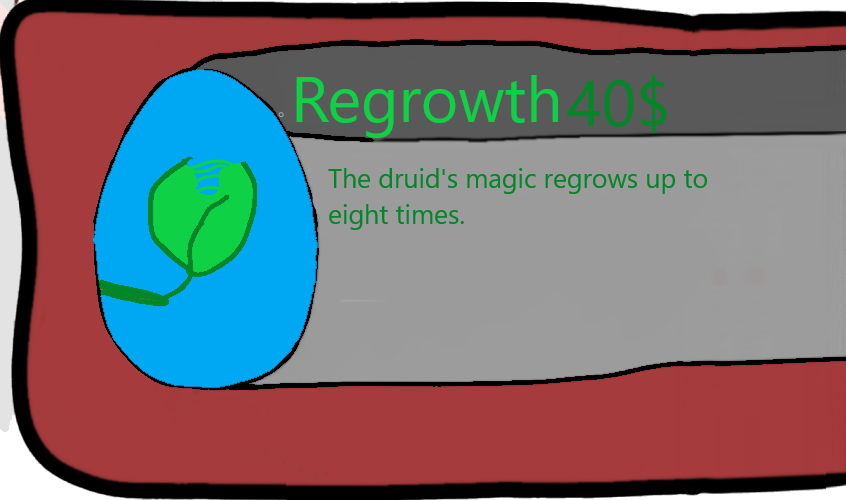
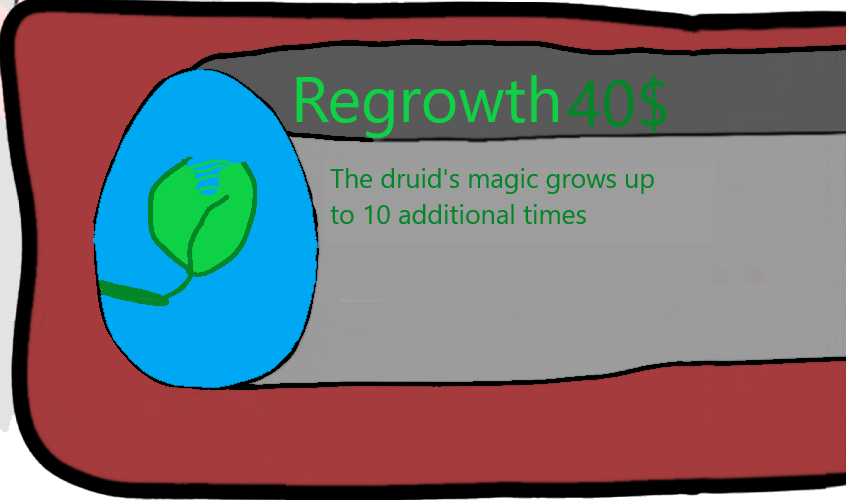
Huge internal improvements
Druud now has 1 base regrow times. engineer can now have 1 more turret at a time., as to balance the new drt monke upgrades.

Changed region(s): [[0.3688, 0.33, 0.8298, 0.45]]

diff --git a/BTD 0.py b/BTD 0.py
@@ -51,6 +51,7 @@ flont = pygame.font.Font('freesansbold.ttf',80)
 flint = pygame.font.Font('freesansbold.ttf',30)
 screen = pygame.display.set_mode((0,0), pygame.FULLSCREEN)
 w, h = pygame.display.get_surface().get_size()
+w-=240
 pygame.display.set_caption("BTD Battles 8")
 icon = loadify('drtmonk')
 pygame.display.set_icon(icon)
@@ -76,15 +77,9 @@ mines=[]
 murder=[]
 sqares=[]
 sqaresize=100
-x=int(sqaresize/2)
-y=int(sqaresize/2)
-for e in range(400):
+for e in range(204):
     sqares.append([])
-    x+=sqaresize
-    if x>w:
-        x=sqaresize/2
-        y+=sqaresize
-maxsqare=19
+maxsqare=17
 sqaresa=[[g for g in e] for e in sqares]
 sqaresb=[[g for g in e] for e in sqares]
 sqares2=[[g for g in e] for e in sqares]
@@ -298,7 +293,7 @@ class druidball(Drt):
                             self.pierce[1]+=1
                             self.dmg+=2
                         xplosions.append(
-                            explode(self.X, self.Y, self.a, self.D[1] / 7 * 30, 10.73 / self.D[1] * self.SPE[c * 2 - 1],
+                            explode(self.X, self.Y, self.a, self.D[1] / 7 * 30, 10.73 / self.D[1] * self.SPE[c * 2 - 1]*4/7,
                                     0))
                         self.pierce[0]=self.pierce[1]
                         drts.remove(self)
@@ -575,27 +570,19 @@ class Druid(pygame.sprite.Sprite):
         self.X=X
         self.Y=Y
         self.ID =loadify("druidball")
-        self.H=1
+        self.H=2
         self.pierce=[0,0]
         self.P = [0]
         self.dmg = 3
 
 
 def drtM():
-    rel=0
     for e in drts:
         e.X+=e.S
         e.Y+=e.s
         e.x=int(e.X)
         e.y=int(e.Y)
 
-        sqares2[int((e.X + e.ss[0]) // sqaresize + (e.Y + e.ss[1]) // sqaresize * maxsqare)].append(e)
-        if e not in sqares2[int(e.X // sqaresize + e.Y // sqaresize * maxsqare)]:
-            sqares2[int(e.X // sqaresize + e.Y // sqaresize * maxsqare)].append(e)
-        if e not in sqares2[int((e.X + e.ss[0]) // sqaresize + e.Y // sqaresize * maxsqare)]:
-            sqares2[int((e.X + e.ss[0]) // sqaresize + e.Y // sqaresize * maxsqare)].append(e)
-        if e not in sqares2[int(e.X // sqaresize + (e.Y + e.ss[1]) // sqaresize * maxsqare)]:
-            sqares2[int(e.X // sqaresize + (e.Y + e.ss[1]) // sqaresize * maxsqare)].append(e)
         if not 0<e.X<1800+e.ss[0]/2:
             if e.b<1:
                 e.kill()
@@ -612,6 +599,22 @@ def drtM():
             else:
                 e.b-=1
                 e.s*=-1
+        else:
+            for d in range( int( 1 + ( min((int( ( e.X + e.ss[0] ) // sqaresize),maxsqare)) - int( e.X // sqaresize )  ) )):
+                for i in range(int(1 + (  min  (int( e.Y + e.ss[1] // sqaresize ),11 ) - int( e.Y // sqaresize )  ))):
+                    sqares2[int((e.X + d*sqaresize) // sqaresize + (e.Y + i*sqaresize) // sqaresize * maxsqare)-1].append(e)
+
+        # sqares2[int((e.X + e.ss[0]) // sqaresize + (e.Y + e.ss[1]) // sqaresize * maxsqare)].append(e)
+        #
+        # if e not in sqares2[int(e.X // sqaresize + e.Y // sqaresize * maxsqare)]:
+        #     sqares2[int(e.X // sqaresize + e.Y // sqaresize * maxsqare)].append(e)
+        #
+        # if e not in sqares2[int((e.X + e.ss[0]) // sqaresize + e.Y // sqaresize * maxsqare)]:
+        #     sqares2[int((e.X + e.ss[0]) // sqaresize + e.Y // sqaresize * maxsqare)].append(e)
+        #
+        # if e not in sqares2[int(e.X // sqaresize + (e.Y + e.ss[1]) // sqaresize * maxsqare)]:
+        #     sqares2[int(e.X // sqaresize + (e.Y + e.ss[1]) // sqaresize * maxsqare)].append(e)
+
 def moida():
     global money,income,rn,locked
     for b in range (len(murder)):
@@ -682,23 +685,39 @@ def blnM():
         e.y=int(e.Y)
         if e not in drts2:
             if e.X>0:
-                sqares[int((e.X + e.s[0]) // sqaresize + (e.Y + e.s[1]) // sqaresize * maxsqare)].append(e)
-                if e not in sqares[int(e.X // sqaresize + e.Y // sqaresize * maxsqare)]:
-                    sqares[int(e.X // sqaresize + e.Y // sqaresize * maxsqare)].append(e)
-                if e not in sqares[int((e.X + e.s[0]) // sqaresize + e.Y // sqaresize * maxsqare)]:
-                    sqares[int((e.X + e.s[0]) // sqaresize + e.Y // sqaresize * maxsqare)].append(e)
-                if e not in sqares[int(e.X // sqaresize + (e.Y + e.s[1]) // sqaresize * maxsqare)]:
-                    sqares[int(e.X // sqaresize + (e.Y + e.s[1]) // sqaresize * maxsqare)].append(e)
+                for d in range(int(1 + (min((int((e.X + e.s[0]) // sqaresize), maxsqare)) - int(e.X // sqaresize)))):
+                    for i in range(int(1 + (min(int(e.Y + e.s[1] // sqaresize), 11) - int(e.Y // sqaresize)))):
+                        sqares[int((e.X + d * sqaresize) // sqaresize + (
+                                    e.Y + i * sqaresize) // sqaresize * maxsqare) - 1].append(e)
+                # for d in range(min(int(1 + (int((e.X + e.s[0]) // sqaresize - int(e.X // sqaresize)))), maxsqare)):
+                #     for i in range(min(int(1 + (int((e.Y + e.s[1]) // sqaresize - int(e.Y // sqaresize)))), 11)):
+                #         print(int((e.X + d * sqaresize) // sqaresize + (e.Y + i * sqaresize) // sqaresize * maxsqare)-1)
+                #         sqares[int((e.X + d * sqaresize) // sqaresize + (e.Y + i * sqaresize) // sqaresize * maxsqare)-1].append(e)
+                # sqares[int((e.X + e.s[0]) // sqaresize + (e.Y + e.s[1]) // sqaresize * maxsqare)].append(e)
+                # if e not in sqares[int(e.X // sqaresize + e.Y // sqaresize * maxsqare)]:
+                #     sqares[int(e.X // sqaresize + e.Y // sqaresize * maxsqare)].append(e)
+                # if e not in sqares[int((e.X + e.s[0]) // sqaresize + e.Y // sqaresize * maxsqare)]:
+                #     sqares[int((e.X + e.s[0]) // sqaresize + e.Y // sqaresize * maxsqare)].append(e)
+                # if e not in sqares[int(e.X // sqaresize + (e.Y + e.s[1]) // sqaresize * maxsqare)]:
+                #     sqares[int(e.X // sqaresize + (e.Y + e.s[1]) // sqaresize * maxsqare)].append(e)
         else:
-            sqares2[
-                int((e.X + e.ss[0]) // sqaresize + (e.Y + e.ss[1]) // sqaresize * maxsqare)].append(
-                e)
-            if e not in sqares2[int(e.X // sqaresize + e.Y // sqaresize * maxsqare)]:
-                sqares2[int(e.X // sqaresize + e.Y // sqaresize * maxsqare)].append(e)
-            if e not in sqares2[int((e.X + e.ss[0]) // sqaresize + e.Y // sqaresize * maxsqare)]:
-                sqares2[int((e.X + e.ss[0]) // sqaresize + e.Y // sqaresize * maxsqare)].append(e)
-            if e not in sqares2[int(e.X // sqaresize + (e.Y + e.ss[1]) // sqaresize * maxsqare)]:
-                sqares2[int(e.X // sqaresize + (e.Y + e.ss[1]) // sqaresize * maxsqare)].append(e)
+            for d in range( int( 1 + ( min((int( ( e.X + e.ss[0] ) // sqaresize),maxsqare)) - int( e.X // sqaresize )  ) )):
+                for i in range(int(1 + (  min  (int( e.Y + e.ss[1] // sqaresize ),11 ) - int( e.Y // sqaresize )  ))):
+                    sqares2[int((e.X + d*sqaresize) // sqaresize + (e.Y + i*sqaresize) // sqaresize * maxsqare)-1].append(e)
+            # for d in range(min(int(1 + (int((e.X + e.ss[0]) // sqaresize - int(e.X // sqaresize)))), maxsqare)):
+            #     for i in range(min(int(1 + (int((e.Y + e.ss[1]) // sqaresize - int(e.Y // sqaresize)))), 11)):
+            #         sqares2[
+            #             int((e.X + d * sqaresize) // sqaresize + (e.Y + i * sqaresize) // sqaresize * maxsqare)-1].append(
+            #             e)
+            # sqares2[
+            #     int((e.X + e.ss[0]) // sqaresize + (e.Y + e.ss[1]) // sqaresize * maxsqare)].append(
+            #     e)
+            # if e not in sqares2[int(e.X // sqaresize + e.Y // sqaresize * maxsqare)]:
+            #     sqares2[int(e.X // sqaresize + e.Y // sqaresize * maxsqare)].append(e)
+            # if e not in sqares2[int((e.X + e.ss[0]) // sqaresize + e.Y // sqaresize * maxsqare)]:
+            #     sqares2[int((e.X + e.ss[0]) // sqaresize + e.Y // sqaresize * maxsqare)].append(e)
+            # if e not in sqares2[int(e.X // sqaresize + (e.Y + e.ss[1]) // sqaresize * maxsqare)]:
+            #     sqares2[int(e.X // sqaresize + (e.Y + e.ss[1]) // sqaresize * maxsqare)].append(e)
         if distanceB(e.X, e.Y, e.n[e.f-1], e.n[e.f],-90):
             e.SY=0
             if e.ID==99:
@@ -938,10 +957,8 @@ def upgrade():
                             if e.F==0:
                                 if money > 39:
                                     for e in lvlup:
-                                        e.H=9
+                                        e.H+=10
                                         money-=40
-                                        e.SPE.append(2)
-                                        e.SPE.append(1)
                                         if e.f==0:
                                             e.I = loadify('druid2')
                                         elif e.f==1:
@@ -1221,7 +1238,7 @@ def bloon():
         if c.firetick[0]>c.firetick[1]:
             c.firetick[0]=0
             c.hploss(c.firedmg+c.armr)
-        screen.blit(pygame.transform.smoothscale(fire[int(c.firetick[0]/c.firetick[1]*(len(fire)-1))],(c.s[0],c.s[1])), (c.x - c.EX-c.s[0]//2, c.y - c.EY-c.s[1]//3))
+        screen.blit(pygame.transform.scale(fire[int(c.firetick[0]/c.firetick[1]*(len(fire)-1))],(c.s[0],c.s[1])), (c.x - c.EX-c.s[0]//2, c.y - c.EY-c.s[1]//3))
 def drtmonk():
     for e in drtmonks:
         screen.blit(e.I,(e.X,e.Y))
@@ -1323,7 +1340,7 @@ explod=[explod1,explod2,explod3]
 spikY=0
 pliesY = 0
 lo = 1
-moar=[pygame.transform.smoothscale(loadify('btd map'),(w,h)).get_size(),loadify('btd map').get_size()]
+moar=[pygame.transform.smoothscale(loadify('btd map'),(w-240,h)).get_size(),loadify('btd map').get_size()]
 tracY=[170, 170, 170, 170, 170, 170, 131, 114, 114, 114, 114, 114, 114, 114, 114, 114, 114, 114, 114, 114, 114, 114, 114, 120, 147, 173, 200, 226, 252, 279, 305, 347, 397, 447, 497, 547, 597, 611, 612, 613, 613, 614, 615, 616, 617, 618, 619, 602, 552, 502, 452, 402, 368, 365, 362, 365, 415, 465, 510, 511, 512, 513, 514, 515, 516, 517, 518, 519, 563, 613, 663, 713, 763, 813, 863, 913, 963, 1013, 170, 170, 170]
 tracX=[110, 160, 210, 260, 310, 360, 376, 411, 461, 511, 561, 611, 661, 711, 761, 811, 861, 911, 961, 1011, 1061, 1111, 1161, 1210, 1252, 1294, 1337, 1379, 1422, 1464, 1507, 1522, 1523, 1525, 1526, 1528, 1529, 1492, 1442, 1392, 1342, 1292, 1242, 1192, 1142, 1092, 1042, 1009, 1007, 1005, 1003, 1001, 984, 934, 884, 839, 836, 833, 825, 775, 725, 675, 625, 575, 525, 475, 425, 375, 368, 368, 367, 366, 365, 364, 363, 362, 361, 360, -36, -84, -133]
 for e in tracY:
@@ -1348,7 +1365,7 @@ board=loadify("board")
 panelloon=loadify("bloonyroad")
 panelsize = pygame.Surface.get_size(panelloon)
 panelsize=panelsize[1]
-back=pygame.transform.smoothscale(loadify('btd map'),(w,h))
+back=pygame.transform.smoothscale(loadify('btd map'),(w+240,h))
 bloonamount=loadify("killerrock")
 drts3=[]
 bloonumba=1
@@ -1358,20 +1375,20 @@ while running:
     XX = pygame.mouse.get_pos()
     for event in pygame.event.get():
         if event.type == pygame.MOUSEBUTTONDOWN and event.button == 1:
-            if XX[0]>w-200:
+            if XX[0]>w+40:
                 if XX[1]<h-200:
                     clickpos=XX[1]-scroll
                     if 118*len(bloonprices)+13>clickpos>12:
                         if int((clickpos-13)/118)<locked:
                             if bloonprices[int((clickpos-13)/118)][growmaybe][0]*bloonumba<=money:
                                 growmaybe=0
-                                if XX[0]>w-100:
+                                if XX[0]>w+140:
                                     if int((clickpos-13)/118)<11:
                                         growmaybe=1
                                 connection.Send({"action": "send", "what": [bloonumba, int((clickpos-13)/118),growmaybe*random.randint(150,250)]})
                                 money-=bloonprices[int((clickpos-13)/118)][growmaybe][0]*bloonumba
                                 income+=bloonprices[int((clickpos-13)/118)][growmaybe][1]*bloonumba
-                elif XX[0]>w-100:
+                elif XX[0]>w+140:
                     if XX[1] < h - 100:
                         bloonumba+=1
                     elif bloonumba>1:
@@ -1412,7 +1429,7 @@ while running:
                     elif select==4:
                         if money>49:
                             money-=50
-                            druids.append(Druid(XX[0]-60,XX[1]-80,loadify('druid'),0,0,(40+random.randint(-30,0))//10,550+random.randint(-350,350),[]))
+                            druids.append(Druid(XX[0]-60,XX[1]-80,loadify('druid'),0,0,(40+random.randint(-30,0))//10,550+random.randint(-350,350),[2,1]))
 
         if event.type == pygame.MOUSEBUTTONDOWN and event.button == 3:
              XX = pygame.mouse.get_pos()
@@ -1561,7 +1578,7 @@ while running:
     #         b.T=20
     #         b.R=35
 
-    for z in range(400):
+    for z in range(204):
         for b in sqares[z]:
             for d in sqares2[z]:
                 if d in drts:
@@ -1609,14 +1626,20 @@ while running:
                 spikX=(1-cl)*e.spikeX[elo]+e.spikeX[elo+1]*cl
                 spikY=(1-cl)*e.spikeY[elo]+e.spikeY[elo+1]*cl
                 drtnew=Drt2(int(spikX),int(spikY),e.ID,e.H,e.LS+ti,e.f,e.F,e.tracpos,e.P)
-                sqaresa[int((drtnew.X + drtnew.ss[0]) // sqaresize + (drtnew.Y + drtnew.ss[1]) // sqaresize * maxsqare)].append(drtnew)
-                if drtnew not in sqaresa[int(drtnew.X // sqaresize + drtnew.Y // sqaresize * maxsqare)]:
-                    sqaresa[int(drtnew.X // sqaresize + drtnew.Y // sqaresize * maxsqare)].append(drtnew)
-                if drtnew not in sqaresa[int((drtnew.X + drtnew.ss[0]) // sqaresize + drtnew.Y // sqaresize * maxsqare)]:
-                    sqaresa[int((drtnew.X + drtnew.ss[0]) // sqaresize + drtnew.Y // sqaresize * maxsqare)].append(drtnew)
-                if drtnew not in sqaresa[int(drtnew.X // sqaresize + (drtnew.Y + drtnew.ss[1]) // sqaresize * maxsqare)]:
-                    sqaresa[int(drtnew.X // sqaresize + (drtnew.Y + drtnew.ss[1]) // sqaresize * maxsqare)].append(drtnew)
-                drts2.append(drtnew)
+
+                for d in range(int(1 + (min((int((drtnew.X + drtnew.ss[0]) // sqaresize), maxsqare)) - int(drtnew.X // sqaresize)))):
+                    for i in range(int(1 + (min(int(drtnew.Y + drtnew.ss[1] // sqaresize), 11) - int(drtnew.Y // sqaresize)))):
+                        sqaresa[int((drtnew.X + d * sqaresize) // sqaresize + (
+                                    drtnew.Y + i * sqaresize) // sqaresize * maxsqare) - 1].append(drtnew)
+
+                # sqaresa[int((drtnew.X + drtnew.ss[0]) // sqaresize + (drtnew.Y + drtnew.ss[1]) // sqaresize * maxsqare)].append(drtnew)
+                # if drtnew not in sqaresa[int(drtnew.X // sqaresize + drtnew.Y // sqaresize * maxsqare)]:
+                #     sqaresa[int(drtnew.X // sqaresize + drtnew.Y // sqaresize * maxsqare)].append(drtnew)
+                # if drtnew not in sqaresa[int((drtnew.X + drtnew.ss[0]) // sqaresize + drtnew.Y // sqaresize * maxsqare)]:
+                #     sqaresa[int((drtnew.X + drtnew.ss[0]) // sqaresize + drtnew.Y // sqaresize * maxsqare)].append(drtnew)
+                # if drtnew not in sqaresa[int(drtnew.X // sqaresize + (drtnew.Y + drtnew.ss[1]) // sqaresize * maxsqare)]:
+                #     sqaresa[int(drtnew.X // sqaresize + (drtnew.Y + drtnew.ss[1]) // sqaresize * maxsqare)].append(drtnew)
+                # drts2.append(drtnew)
     for e in druidart:
         if e.D[0]+e.D[1]<ti:
             drts.append(e)
@@ -1774,24 +1797,24 @@ while running:
     hpshow(10,10)
     screen.blit(loadify('select'),(40,780)) 
     screen.blit(monksel[select],(50,800))    
-    screen.blit(panelloon,(w-240,scroll))
+    screen.blit(panelloon,(w,scroll))
     for b in range(len(bloonprices)):
         v=len(bloonprices)-b
         if int((121*v)/118)>locked:
-            screen.blit(lock, (w-240, int((118*(v-1)+scroll+13))))
+            screen.blit(lock, (w, int((118*(v-1)+scroll+13))))
         else:
             break
     for e in images:
         screen.blit(e.I,(x,y))
-    screen.blit(bloonamount, (w - 240, h-200))
+    screen.blit(bloonamount, (w, h-200))
     bwee = finter.render(str(bloonumba), True, (0, 0, 0))
-    screen.blit(bwee, (w - 180, h - 150))
-    if XX[0]>w-200:
+    screen.blit(bwee, (w +60, h - 150))
+    if XX[0]>w+40:
         if XX[1] < h - 200:
             clickpos = XX[1] - scroll
             if 118 * len(bloonprices) + 13 > clickpos > 12:
                 growmaybe=0
-                if XX[0]>w-100:
+                if XX[0]>w+140:
                     if int((clickpos - 13) / 118)<11:
                         growmaybe=1
                 screen.blit(board, (XX[0] - 300, XX[1]))

diff --git a/btdserver.py b/btdserver.py
@@ -132,12 +132,12 @@ f=1
 updates=[]
 rn=5
 spc=0
+blnpower=[1,2.2,3.4,4.4,5.6,8,14,12,10,20,20,30,40]
 def rnd(b):
-    global rn,players,nextround,ch,spc
+    global rn,players,nextround,ch,spc,blnpower
     if b==0:
         nextround = 0
         rn+=1
-    blnamount=1
     spc = random.randint(2, 30)
     ch = 5
     regrow = random.choice([0, 1])
@@ -159,23 +159,19 @@ def rnd(b):
                 spc += 10
         if rn > 30:
             ch = random.randint(1, 11)
-            if ch>8:
-                blnamount-=0.3
         elif rn > 20:
             ch = random.randint(1, 9)
-            if ch<7:
-                blnamount+=1
         elif rn > 15:
             ch = random.randint(1, 6)
-            blnamount+=0.2
         else:
             ch = random.randint(1, 3)
         if ch == 7:
             spc += 10
             #[howmany, which, regrow (random.randint(50,350) is standard)]
     for channel in srvr.all_channels:
-        sendamount=min(int(blnamount*rn / int(ch / 2 + 1)),150)
-        channel.Send({"action": "ugotbloonsmon", "takedis": [sendamount, ch-1, regrow, min(spc,int(200/sendamount))]})
+        sendamount=min(int(rn**2/5 / int(ch*blnpower[ch-1] / 4 + 1)),150)
+        print(min(spc,int(45000/sendamount**2)))
+        channel.Send({"action": "ugotbloonsmon", "takedis": [sendamount, ch-1, regrow, min(spc,int(45000/sendamount**2))]})
     if random.randint(int(rn / 3), rn) > 10 + b * 2:
         rnd(b + 1)
 
